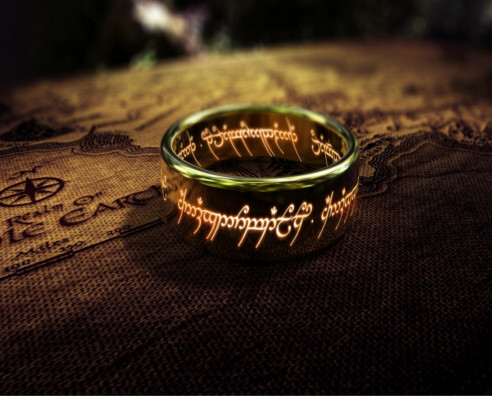
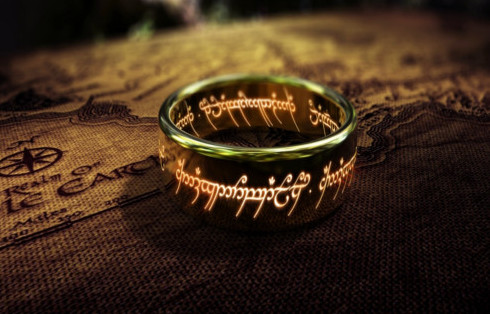
Achievements page modified

diff --git a/about.html b/about.html
@@ -4,6 +4,7 @@ title: About
 permalink: /about/
 position: 1
 ---
+
 <div id="about">
 <h1>About The Fellowship</h1>
 <img src="../images/fellow.jpg" class="pull-right" alt="">
@@ -14,6 +15,6 @@ The Fellowship is also known the Company of the Ring, the Nine Walkers, or more 
 <p>The Fellowship of the Ring was formed as a brotherhood among members of the various Free Peoples of Middle-earth. Its purpose was to take the One Ring to Mordor that it might be cast into the fires of Mount Doom (Orodruin), the mountain in which it was forged, so that it would be destroyed, this would ultimately kill Dark Lord Sauron.
 The Fellowship is also known the Company of the Ring, the Nine Walkers, or more simply the Fellowship or the Company. Each of the members of the Company were representatives of their respective races, with Legolas and Gimli being the only Elf and Dwarf chosen.</p>
 <h1>History</h1>
-<img src="../images/ring.jpg" class="pull-left" alt="">
+<img src="../images/ring.png" class="pull-left" alt="">
 <p>Formed after the Council of Elrond, The Fellowship consisted of nine members: four Hobbits, two Men, one Elf, one Dwarf, and one Istar wizard. It is the only known organisation/group ever formed in the history of Middle-earth, to hold members of each of these races within it (and with the departure of the Elves and Istar from Middle-earth, there would never be another like it), who largely lived and acted independently of one another (or in the case of Elves and Dwarves, felt active animosity toward each other). This number was chosen to match the number of Ring Wraiths, also known as Black Riders, the Nazgúl or the Nine Riders. Merry and Pippin were never intended to be a part of the Fellowship, with Elrond considering two Elf-lords from his own house. He wished to send the two younger hobbits back to the Shire as messengers to warn other Hobbits of the growing evil. However, the halflings persevere: Merry is chosen and Gandalf convinces Elrond of the loyalty of Pippin.</p>
 </div>

diff --git a/blog.html b/blog.html
@@ -4,24 +4,34 @@ title: Blog
 permalink: /blog/
 position: 4
 ---
-<h1>About Page</h1>
+<div id="blog">
+  <h1>Fellowship Blog</h1>
 
-<div class="home">
-
-  <h1 class="page-heading">Posts</h1>
-
-  <ul class="post-list">
+  <section id="posts" class="container-fluid">
     {% for post in site.posts %}
-      <li>
-        <span class="post-meta">{{ post.date | date: "%b %-d, %Y" }}</span>
-
+    <article class="post row">  
+      <div class="col-sm-2 hidden-xs cal">
+        <div class="date-box">
+        <i class="fa fa-calendar-o"></i>
+          <span class="date">{{ post.date | date: "%-d"}}</span>
+          <span class="month">{{ post.date | date: "%b"}}</span>
+        
+        </div>
+      </div>
+      <div class="col-sm-10 pad">
         <h2>
           <a class="post-link" href="{{ post.url | prepend: site.baseurl }}">{{ post.title }}</a>
         </h2>
-      </li>
+        <p>{{ post.excerpt}}</p>
+        <a href="{{ post.url | prepend: site.baseurl }}" class="pull-right">Read more..</a>
+      </div>
+    </article>
     {% endfor %}
   </ul>
-
-  <p class="rss-subscribe">subscribe <a href="{{ "/feed.xml" | prepend: site.baseurl }}">via RSS</a></p>
-
+</section>
+<div class="subscribe">
+ subscribe<a href="{{ "/feed.xml" | prepend: site.baseurl }}">via RSS</a>
 </div>
+</div>
+
+

diff --git a/_includes/head.html b/_includes/head.html
@@ -8,7 +8,13 @@
   <link rel="stylesheet" href="https://maxcdn.bootstrapcdn.com/bootstrap/3.3.5/css/bootstrap.min.css">
   <link rel="stylesheet" href="{{ "/css/bootstrap-yeti.min.css" | prepend: site.baseurl }}">
   <link rel="stylesheet" href="{{ "/css/main.css" | prepend: site.baseurl }}">
+  <link rel="stylesheet" href="https://maxcdn.bootstrapcdn.com/font-awesome/4.4.0/css/font-awesome.min.css">
+  <script src="https://code.jquery.com/jquery-2.1.4.min.js"></script>
+  <script src="https://parse.com/downloads/javascript/parse-1.6.0.js"></script>
+  <script src="{{"/js/ping.js" | prepend:site.baseurl}}"></script>
+
  <link href='https://fonts.googleapis.com/css?family=Dancing+Script' rel='stylesheet' type='text/css'>
+ <link href='https://fonts.googleapis.com/css?family=Open+Sans' rel='stylesheet' type='text/css'>
   <link rel="canonical" href="{{ page.url | replace:'index.html','' | prepend: site.baseurl | prepend: site.url }}">
   <link rel="alternate" type="application/rss+xml" title="{{ site.title }}" href="{{ "/feed.xml" | prepend: site.baseurl | prepend: site.url }}" />
 </head>

diff --git a/contact.html b/contact.html
@@ -4,4 +4,29 @@ title: Contact
 permalink: /contact/
 position: 5
 ---
-<h1>Contact Page</h1>
+<h1>Contact Us</h1>
+<form class="form-horizontal">
+  <div class="form-group">
+    <label for="inputEmail3" class="col-sm-2 control-label">Email</label>
+    <div class="col-sm-10">
+      <input type="email" class="form-control" id="inputEmail3" placeholder="Email">
+    </div>
+  </div>
+  <div class="form-group">
+    <label for="inputPassword3" class="col-sm-2 control-label">Password</label>
+    <div class="col-sm-10">
+      <input type="password" class="form-control" id="inputPassword3" placeholder="Password">
+    </div>
+  </div>
+  <div class="form-group">
+    <div class="col-sm-offset-2 col-sm-10">
+      <textarea type="text" class="form-control" placeholder="Message">
+    </textarea>
+    </div>
+  </div>
+  <div class="form-group">
+    <div class="col-sm-offset-2 col-sm-10">
+      <button type="submit" class="btn btn-default">Send Message</button>
+    </div>
+  </div>
+</form>

diff --git a/_posts/2015-09-11-all-set-to-go.html b/_posts/2015-09-11-all-set-to-go.html
@@ -1,0 +1,11 @@
+---
+layout: post
+title:  "All Set to Go!"
+date:   2015-09-11 13:22:49
+categories: adventure happy
+---
+<p>
+  Lorem ipsum dolor sit amet, consectetur adipisicing elit. Cupiditate assumenda quasi numquam reprehenderit harum quae, commodi possimus repudiandae earum, nemo quibusdam dolor modi esse mollitia, illo labore voluptatibus nostrum voluptas! Mollitia eum perferendis reprehenderit ducimus modi, tempore incidunt nulla placeat eos facere voluptates magni beatae fuga, veniam eaque iusto quasi.
+</p>
+
+<p>Lorem ipsum dolor sit amet, consectetur adipisicing elit. Sed aliquam quasi sit incidunt soluta nisi eveniet quam explicabo vel itaque! Commodi unde ex facere ea culpa nostrum placeat illum tempore, perferendis veniam sequi ipsum pariatur cupiditate cumque provident delectus voluptate, doloribus suscipit, est voluptatem quia! Assumenda, aut nostrum nemo aspernatur, aliquam rem alias mollitia error minima ut inventore aliquid optio.</p>

diff --git a/achievements.html b/achievements.html
@@ -4,4 +4,35 @@ title: Achievements
 permalink: /achievements/
 position: 3
 ---
-<h1>Achievements Page</h1>
+<h1>Achievements</h1>
+<img src="../images/achievements/trophy.png" class="pull-right" alt="">
+<table>
+  <tr>
+  <td>Academy Award for Best Visual Effects</td>
+  <td>2002</td>
+  </tr>
+  <tr>
+  <td>Academy Award for Best Cinematography</td>
+  <td>2002</td>
+  </tr>
+  <tr>
+  <td>MTV Movie Award for Best Movie</td>
+  <td>2002</td>
+  </tr>
+  <tr>
+  <td>BAFTA Award for Best Film</td>
+  <td>2002</td>
+  </tr>
+  <tr>
+  <td>People's Choice Award for Favorite Movie</td>
+  <td>2003</td>
+  </tr>
+  <tr>
+  <td>Academy Award for Best Makeup and Hairstyling</td>
+  <td>2002</td>
+  </tr>
+  <tr>
+  <td>Academy Award for Best Original Music Score</td>
+  <td>2002</td>
+  </tr>
+</table>

diff --git a/_sass/_blog.scss b/_sass/_blog.scss
@@ -1,0 +1,45 @@
+#blog{
+  #posts{
+    margin-top: 1em;
+    .post{
+      h2{
+        margin-top: 0;
+      }
+      .date-box{
+
+       padding-left: 2em;
+       .cal{
+        margin-right: -18px;
+        position: absolute;
+      }
+      .fa{
+        font-size: 4.5em;
+        color: #000;
+        position: absolute;
+      }
+      .date{
+        font-size: 1.29em;
+        color: #000;
+        display: inline-block;
+        padding-top: 1.5em;
+        padding-left: 0.3em;
+      }
+      .month{
+        font-size: 1.29em;
+        color: #000;
+        display: inline-block;
+        padding-top: 1.5em;
+        padding-left: 0.3em;
+      }
+    }
+  }
+}
+.subscribe{
+  text-align:center;
+  margin: 1em 0;
+}
+.pad{
+  padding-left: 0px;
+}
+
+}

diff --git a/fellows.html b/fellows.html
@@ -4,4 +4,18 @@ title: Fellow
 permalink: /fellows/
 position: 2
 ---
-<h1>Fellows Page</h1>
+<div id="fellows" class="container-fluid">
+  <h1>Members of the Fellowship</h1>
+  {% for fellow in site.data.fellows %}
+    <div class="fellow row">
+      <div class="col-xs-2">
+        <img src="../images/fellows/{{fellow.image}}" alt="{{fellow.name}}" class="float-left img-circle img-responsive">
+      </div>
+      
+      <div class="col-xs-10">
+        <h2>{{fellow.name}}</h2>
+        <p>{{fellow.description}}</p>
+      </div>
+    </div>
+  {% endfor %}
+</div>

diff --git a/css/main.scss b/css/main.scss
@@ -8,6 +8,9 @@
         "theme",
         "common",
         "land",
-        "about"
+        "about",
+        "blog",
+        "fellows",
+        "achievements"
         
 ;

diff --git a/_sass/achievements.scss b/_sass/achievements.scss
@@ -1,0 +1,9 @@
+.pull-right{
+  padding-top: 7em;
+}
+td,th{
+  padding-right: 0em;
+  padding-bottom: 2em;
+  padding-left: 20em;
+  padding-top: 4em;
+}

diff --git a/_sass/_about.scss b/_sass/_about.scss
@@ -1,6 +1,7 @@
 #about{
   img{
     border: 3px solid #B0B0B0;
+    padding-top: 0px;
     &.pull-left{
       margin-right: 20px;
     }

diff --git a/_sass/_theme.scss b/_sass/_theme.scss
@@ -1,3 +1,3 @@
 $heading-font:'Dancing Script', cursive;
 $normal_font: 'Dancing Script', cursive;
-$p:arial;
+$p:'Open Sans', sans-serif;
